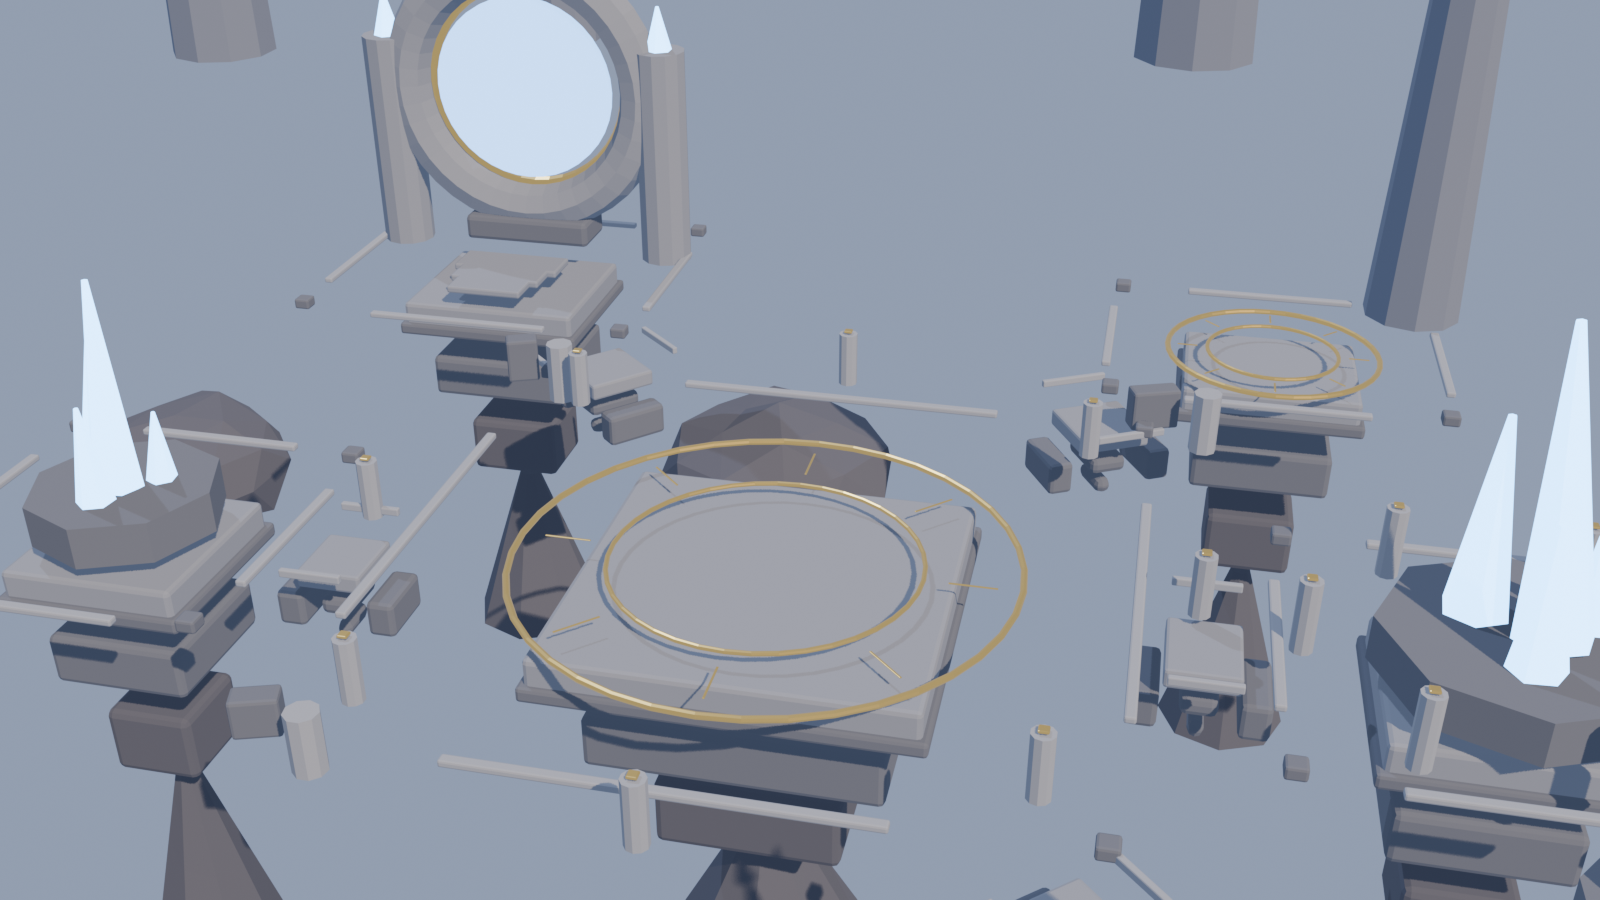
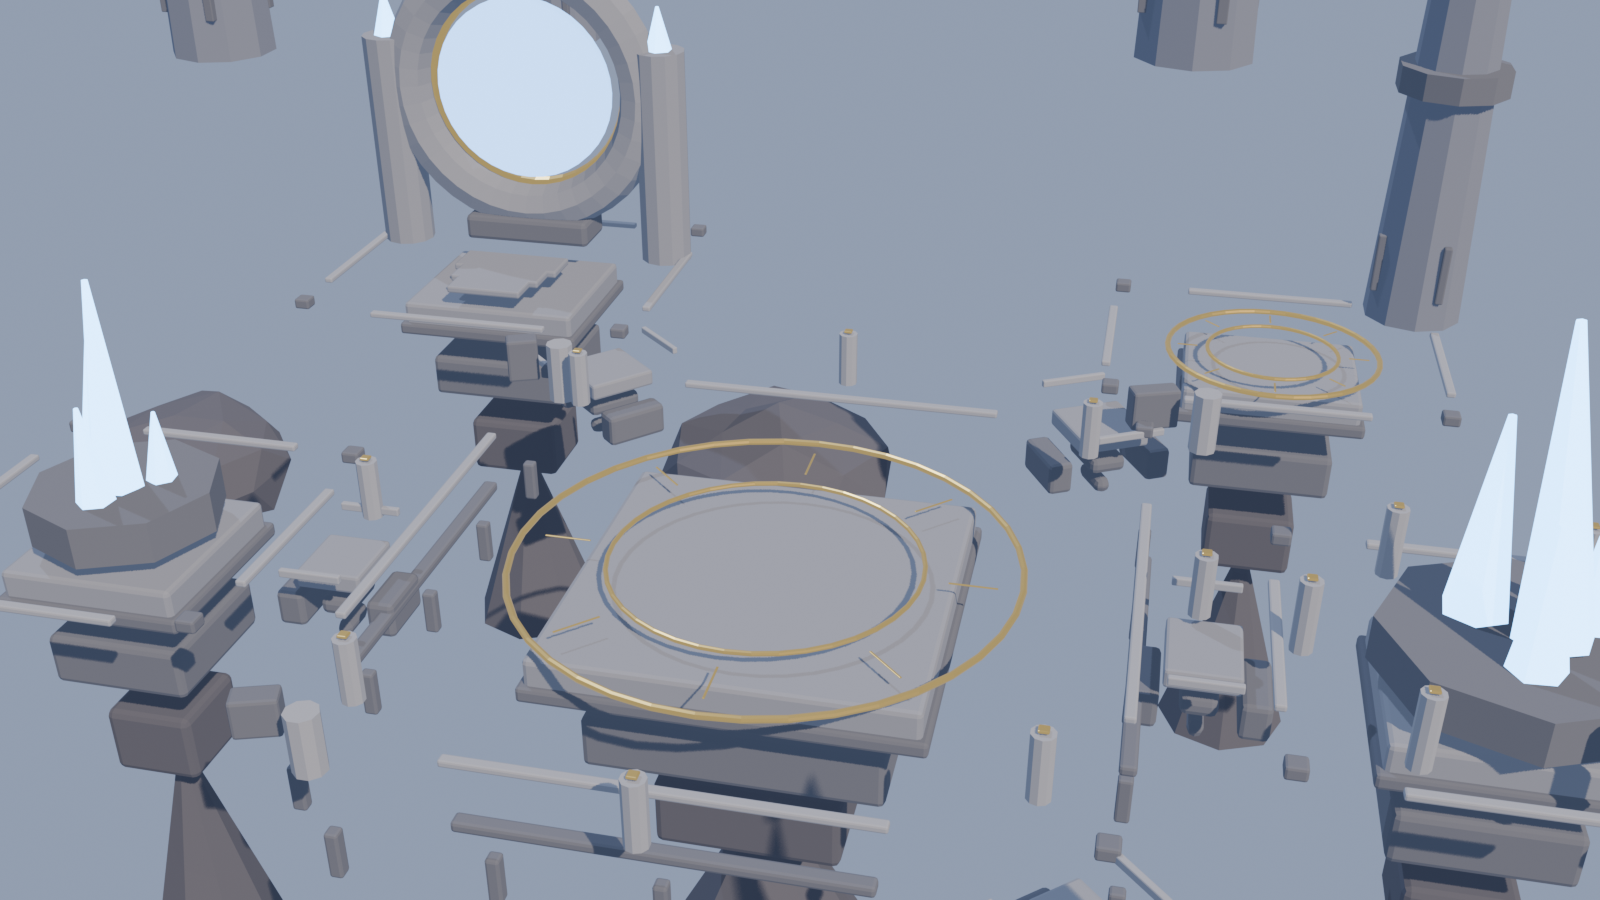
Fidelidad visual: sillería, cristales físicos y amanecer de referencia
- masonryTexture(): sillería tileable (hiladas, juntas, desgaste) aplicada
  en runtime a las superficies grandes del GLB como map + bumpMap.
- Cristales con MeshPhysicalMaterial translúcido (transmission + emisivo).
- Dorados más emisivos; sol de amanecer desde arriba-derecha como en la
  referencia, cielo rotado, relleno frío desde el portal.
- Mar de nubes denso + banco estático de primer plano bajo los bordes.
- Blender: columnata (dintel + pilastras) bajo los bordes visibles de la
  plaza, torres góticas de dos cuerpos con balcón y contrafuertes.
- e2e con perfil ligero (calidad baja + movimiento reducido): valida el
  flujo sin que el WebGL por software agote el presupuesto.
- 71 tests + lint + build + e2e en verde.

diff --git a/src/battle/scenarios/AetherCitadel.tsx b/src/battle/scenarios/AetherCitadel.tsx
@@ -1,12 +1,12 @@
 import { Sparkles, useGLTF } from '@react-three/drei'
 import { useFrame } from '@react-three/fiber'
 import { Component, useEffect, useMemo, useRef, type ReactNode } from 'react'
-import { AdditiveBlending, DoubleSide } from 'three'
-import type { Group, Mesh, Object3D, PointLight } from 'three'
+import { AdditiveBlending, DoubleSide, MeshPhysicalMaterial, RepeatWrapping } from 'three'
+import type { Group, Mesh, MeshStandardMaterial, Object3D, PointLight } from 'three'
 import type { AnimationEvent } from '../../game'
 import type { GraphicsQuality } from '../../store/preferences'
 import { withBase } from '../../utils/assets'
-import { cloudTexture, dawnSkyTexture, glowTexture, portalSwirlTexture } from '../textures'
+import { cloudTexture, dawnSkyTexture, glowTexture, masonryTexture, portalSwirlTexture } from '../textures'
 import { SanctuaryScenario } from './SanctuaryScenario'
 
 const CITADEL_URL = withBase('/assets/scenarios/aether-citadel.glb')
@@ -28,15 +28,16 @@ function DawnAtmosphere({ quality }: { quality: GraphicsQuality }) {
     <>
       <color attach="background" args={['#3b4468']} />
       <fog attach="fog" args={['#7885a8', 26, 88]} />
-      <mesh rotation={[0, 0.9, 0]}>
+      <mesh rotation={[0, -2.2, 0]}>
         <sphereGeometry args={[70, 32, 20]} />
         <meshBasicMaterial map={dawnSkyTexture()} side={1} fog={false} />
       </mesh>
-      <ambientLight intensity={0.55} color="#aeb9d8" />
-      <hemisphereLight intensity={0.45} color="#d8e2ff" groundColor="#5a4a3a" />
+      <ambientLight intensity={0.48} color="#aeb9d8" />
+      <hemisphereLight intensity={0.4} color="#d8e2ff" groundColor="#5a4a3a" />
+      {/* Sol de amanecer desde arriba-derecha, como en la referencia. */}
       <directionalLight
-        position={[-16, 15, -11]}
-        intensity={4.3}
+        position={[15, 14, -8]}
+        intensity={4.8}
         color="#ffcf96"
         castShadow={quality !== 'low'}
         shadow-mapSize-width={quality === 'high' ? 2048 : 1024}
@@ -46,7 +47,8 @@ function DawnAtmosphere({ quality }: { quality: GraphicsQuality }) {
         shadow-camera-top={9}
         shadow-camera-bottom={-9}
       />
-      <directionalLight position={[14, 9, 12]} intensity={0.55} color="#8fa8e8" />
+      {/* Relleno frío desde el lado del portal. */}
+      <directionalLight position={[-14, 9, 10]} intensity={0.6} color="#8fa8e8" />
     </>
   )
 }
@@ -121,37 +123,110 @@ function DawnClouds({ quality, reducedMotion }: { quality: GraphicsQuality; redu
     })
   })
   if (quality === 'low') return null
+  const foreground: readonly (readonly [number, number, number, number, boolean])[] = [
+    [-7.5, -1.7, 9.5, 15, true],
+    [0.5, -2.1, 11.5, 18, false],
+    [8, -1.5, 9, 14, true],
+    [-13, -1.2, 4, 12, false],
+    [13.5, -1.3, 3.5, 13, true],
+  ]
   return (
-    <group ref={group}>
-      {clouds.map((cloud, index) => (
-        <sprite
-          key={index}
-          position={[Math.cos(cloud.angle) * cloud.radius, cloud.y, Math.sin(cloud.angle) * cloud.radius]}
-          scale={[cloud.scale, cloud.scale * 0.42, 1]}
-        >
+    <>
+      <group ref={group}>
+        {clouds.map((cloud, index) => (
+          <sprite
+            key={index}
+            position={[Math.cos(cloud.angle) * cloud.radius, cloud.y, Math.sin(cloud.angle) * cloud.radius]}
+            scale={[cloud.scale, cloud.scale * 0.42, 1]}
+          >
+            <spriteMaterial
+              map={cloudTexture()}
+              transparent
+              opacity={cloud.warm ? 0.72 : 0.58}
+              color={cloud.warm ? '#ffd9b0' : '#e8eefb'}
+              depthWrite={false}
+              fog={false}
+            />
+          </sprite>
+        ))}
+      </group>
+      {/* Banco de nubes estático en primer plano, pegado a los bordes. */}
+      {foreground.map(([x, y, z, scale, warm], index) => (
+        <sprite key={`fg-${index}`} position={[x, y, z]} scale={[scale, scale * 0.38, 1]}>
           <spriteMaterial
             map={cloudTexture()}
             transparent
-            opacity={cloud.warm ? 0.72 : 0.58}
-            color={cloud.warm ? '#ffd9b0' : '#e8eefb'}
+            opacity={warm ? 0.85 : 0.7}
+            color={warm ? '#ffdfba' : '#eef2fc'}
             depthWrite={false}
             fog={false}
           />
         </sprite>
       ))}
-    </group>
+    </>
   )
 }
 
-/** La arquitectura estática exportada desde Blender. */
+/**
+ * La arquitectura estática exportada desde Blender, revestida en runtime:
+ * el glTF trae materiales PBR planos y aquí se les aplica la sillería
+ * procedural, dorados emisivos y cristales físicos translúcidos.
+ */
 function CitadelModel({ quality }: { quality: GraphicsQuality }) {
   const { scene } = useGLTF(CITADEL_URL)
   useEffect(() => {
+    const masonry = masonryTexture()
+    masonry.wrapS = RepeatWrapping
+    masonry.wrapT = RepeatWrapping
+    const dressed = new Set<string>()
     scene.traverse((object) => {
       const mesh = object as Mesh
-      if (mesh.isMesh) {
-        mesh.receiveShadow = quality !== 'low'
-        mesh.castShadow = false
+      if (!mesh.isMesh) return
+      mesh.receiveShadow = quality !== 'low'
+      mesh.castShadow = quality === 'high' && /Tower|Portal(Pylon|ArchOuter)|Col\d|Pedestal/.test(mesh.name)
+      const material = mesh.material as MeshStandardMaterial
+      if (!material?.name) return
+      // Cristales: material físico translúcido, uno por malla para el brillo interno.
+      if (material.name === 'AC_CrystalBlue') {
+        if (!(mesh.material instanceof MeshPhysicalMaterial)) {
+          mesh.material = new MeshPhysicalMaterial({
+            color: '#8ecbff',
+            roughness: 0.08,
+            metalness: 0.05,
+            transmission: 0.55,
+            thickness: 1.2,
+            ior: 1.45,
+            emissive: '#2f7fe8',
+            emissiveIntensity: 1.35,
+            transparent: true,
+            opacity: 0.96,
+          })
+        }
+        return
+      }
+      if (dressed.has(material.name)) return
+      dressed.add(material.name)
+      if (/AC_StoneMain|AC_StoneLight|AC_RockUnder/.test(material.name)) {
+        // Sillería solo en superficies grandes; en cilindros finos los UV
+        // estiran los bloques y arruinan la lectura.
+        const repeat = material.name === 'AC_RockUnder' ? 1.6 : 2.4
+        material.map = masonry
+        material.bumpMap = masonry
+        material.bumpScale = 2.5
+        material.map.repeat.set(repeat, repeat)
+        // El mapa multiplica al color base: se aclara para que la sillería respire.
+        material.color.multiplyScalar(2.1)
+        material.needsUpdate = true
+      } else if (/AC_StoneDark|AC_RuinFar/.test(material.name)) {
+        material.color.multiplyScalar(1.2)
+        material.needsUpdate = true
+      } else if (material.name === 'AC_GoldInlay') {
+        material.emissiveIntensity = 1.05
+        material.roughness = 0.24
+        material.needsUpdate = true
+      } else if (material.name === 'AC_PortalCore') {
+        material.emissiveIntensity = 5.5
+        material.needsUpdate = true
       }
     })
   }, [scene, quality])

diff --git a/src/battle/textures.ts b/src/battle/textures.ts
@@ -365,6 +365,77 @@ export const nebulaTexture = (): CanvasTexture => {
   return finishTexture('nebula', canvas);
 };
 
+/**
+ * Sillería de piedra tileable para revestir la arquitectura del GLB en
+ * runtime: hiladas de bloques con juntas desfasadas, variación tonal por
+ * bloque, desgaste y regueros de intemperie. Sirve como map y bumpMap.
+ */
+export const masonryTexture = (): CanvasTexture => {
+  const cached = cache.get('masonry');
+  if (cached) return cached;
+  const size = 512;
+  const [canvas, context] = makeCanvas(size);
+  const random = seededRandom(0x4d41534f);
+
+  context.fillStyle = '#9a9aa2';
+  context.fillRect(0, 0, size, size);
+
+  const rows = 8;
+  const rowHeight = size / rows;
+  for (let row = 0; row < rows; row += 1) {
+    const offset = row % 2 === 0 ? 0 : rowHeight * 0.9;
+    const blocks = 4 + (row % 2);
+    const blockWidth = size / blocks;
+    for (let block = -1; block <= blocks; block += 1) {
+      const x = block * blockWidth + offset;
+      const y = row * rowHeight;
+      // Tono base por bloque con deriva fría/cálida sutil.
+      const value = 128 + (random() - 0.5) * 44;
+      const warm = (random() - 0.5) * 10;
+      context.fillStyle = `rgb(${value + warm}, ${value + warm * 0.4}, ${value - warm + 8})`;
+      context.fillRect(x + 2, y + 2, blockWidth - 4, rowHeight - 4);
+      // Sombreado inferior del bloque (bisel).
+      context.fillStyle = 'rgba(30, 30, 40, 0.28)';
+      context.fillRect(x + 2, y + rowHeight - 7, blockWidth - 4, 5);
+      context.fillStyle = 'rgba(255, 255, 255, 0.10)';
+      context.fillRect(x + 2, y + 2, blockWidth - 4, 3);
+      // Moteado interior.
+      for (let grain = 0; grain < 26; grain += 1) {
+        const luminance = 70 + random() * 120;
+        context.fillStyle = `rgba(${luminance}, ${luminance}, ${luminance + 8}, ${0.05 + random() * 0.1})`;
+        context.fillRect(x + 3 + random() * (blockWidth - 8), y + 3 + random() * (rowHeight - 8), 1 + random() * 2.4, 1 + random() * 2);
+      }
+      // Desconchones ocasionales.
+      if (random() > 0.72) {
+        context.fillStyle = 'rgba(52, 52, 62, 0.35)';
+        context.beginPath();
+        context.arc(x + random() * blockWidth, y + random() * rowHeight, 3 + random() * 7, 0, Math.PI * 2);
+        context.fill();
+      }
+    }
+    // Junta horizontal.
+    context.fillStyle = 'rgba(24, 24, 32, 0.85)';
+    context.fillRect(0, row * rowHeight - 1, size, 3);
+  }
+  // Regueros verticales de intemperie.
+  for (let streak = 0; streak < 14; streak += 1) {
+    const x = random() * size;
+    const height = size * (0.2 + random() * 0.5);
+    const y = random() * (size - height);
+    const gradient = context.createLinearGradient(0, y, 0, y + height);
+    gradient.addColorStop(0, 'rgba(40, 42, 52, 0)');
+    gradient.addColorStop(0.4, `rgba(40, 42, 52, ${0.10 + random() * 0.12})`);
+    gradient.addColorStop(1, 'rgba(40, 42, 52, 0)');
+    context.fillStyle = gradient;
+    context.fillRect(x, y, 2 + random() * 5, height);
+  }
+
+  const texture = finishTexture('masonry', canvas);
+  texture.wrapS = 1000; // RepeatWrapping
+  texture.wrapT = 1000;
+  return texture;
+};
+
 /** Cielo de amanecer para Aether Citadel: horizonte cálido, cénit azul y nubes lejanas. */
 export const dawnSkyTexture = (): CanvasTexture => {
   const cached = cache.get('dawn-sky');

diff --git a/e2e/game-flow.spec.ts b/e2e/game-flow.spec.ts
@@ -1,9 +1,26 @@
 import { expect, test } from '@playwright/test'
 
 test('recorre la galería y comienza una partida contra la IA', async ({ page }) => {
+  test.setTimeout(90_000)
   const consoleErrors: string[] = []
   page.on('console', (message) => {
     if (message.type() === 'error') consoleErrors.push(message.text())
+  })
+
+  // El e2e valida el flujo de juego, no los gráficos: calidad baja y
+  // movimiento reducido para que el WebGL por software no agote el tiempo.
+  await page.addInitScript(() => {
+    localStorage.setItem(
+      'cronicas-nexo-preferences',
+      JSON.stringify({
+        state: {
+          masterVolume: 0, musicVolume: 0, effectsVolume: 0, muted: true,
+          reducedMotion: true, aiDelayMs: 200, selectedDeckId: 'furia-caldera',
+          graphicsQuality: 'low', scenario: 'aether-citadel', animationSpeed: 2,
+        },
+        version: 3,
+      }),
+    )
   })
 
   await page.goto('/')

diff --git a/tools/blender/generate_aether_citadel.py b/tools/blender/generate_aether_citadel.py
@@ -304,15 +304,53 @@ def crystal_cluster(prefix, col, mats, center, scale=1.0):
 
 
 def tower_module(prefix, col, mats, location, height, radius):
+    """Torre gótica de dos cuerpos con balcón, aguja y faro de cristal."""
     x, y = location
     cylinder(f"{prefix}Shaft", col, mats["ruin"], radius, height, (x, y, height / 2),
-             vertices=10, radius2=radius * 0.7)
-    cylinder(f"{prefix}Crown", col, mats["stone_dark"], radius * 0.85, height * 0.16,
-             (x, y, height + height * 0.07), vertices=10)
-    cylinder(f"{prefix}Spire", col, mats["ruin"], radius * 0.55, height * 0.5,
-             (x, y, height * 1.32), vertices=8, radius2=0.02)
+             vertices=10, radius2=radius * 0.74)
+    # Balcón intermedio y cuerpo superior más esbelto.
+    cylinder(f"{prefix}Balcony", col, mats["stone_dark"], radius * 1.12, height * 0.07,
+             (x, y, height * 0.66), vertices=10)
+    cylinder(f"{prefix}Upper", col, mats["ruin"], radius * 0.62, height * 0.5,
+             (x, y, height * 0.94), vertices=10, radius2=radius * 0.42)
+    cylinder(f"{prefix}Crown", col, mats["stone_dark"], radius * 0.7, height * 0.12,
+             (x, y, height * 1.24), vertices=10)
+    cylinder(f"{prefix}Spire", col, mats["ruin"], radius * 0.42, height * 0.55,
+             (x, y, height * 1.55), vertices=8, radius2=0.02)
+    # Contrafuertes en la base.
+    for corner in range(4):
+        angle = corner / 4 * math.tau + 0.4
+        box(f"{prefix}Buttress{corner}", col, mats["stone_dark"],
+            (radius * 0.34, radius * 0.34, height * 0.32),
+            (x + math.cos(angle) * radius * 0.95, y + math.sin(angle) * radius * 0.95,
+             height * 0.16), bevel=0.03)
     crystal(f"{prefix}Beacon", col, mats["crystal"], radius * 0.2, radius * 0.8,
-            (x, y, height * 1.62))
+            (x, y, height * 1.88))
+
+
+def arcade_module(prefix, col, mats, center, size, bays=5):
+    """Arquería bajo el borde de una plaza: pilastras y arcos colgantes."""
+    cx, cy = center
+    half = size / 2
+    step = size / bays
+    # Solo las fachadas que ve la cámara: sur, oeste y este. Hundidas bajo
+    # el borde para que únicamente asome la media luna del arco.
+    sides = [
+        (0, -half, 0),            # frente (sur)
+        (-half, 0, math.pi / 2),  # oeste
+        (half, 0, -math.pi / 2),  # este
+    ]
+    for side_index, (ox, oy, yaw) in enumerate(sides):
+        # Dintel corrido bajo el borde y pilastras colgantes: columnata.
+        box(f"{prefix}S{side_index}Lintel", col, mats["stone_dark"],
+            (size * 0.98, 0.5, 0.34), (cx + ox, cy + oy, -0.86),
+            rotation=(0, 0, yaw), bevel=0.05)
+        for bay in range(bays):
+            along = -half + step * (bay + 0.5)
+            px = cx + ox + math.cos(yaw) * along
+            py = cy + oy + math.sin(yaw) * along
+            box(f"{prefix}S{side_index}Pilaster{bay}", col, mats["stone_dark"],
+                (0.4, 0.44, 1.5), (px, py, -1.72), rotation=(0, 0, yaw), bevel=0.04)
 
 
 # ---------------------------------------------------------------------------
@@ -365,8 +403,9 @@ def build_citadel() -> None:
     bridge_module("BridgeW", secondary, mats, (-5.8, -1.0), (-7.3, -1.0), 2.3)
     bridge_module("BridgeSE", secondary, mats, (4.6, -5.8), (5.9, -7.2), 2.0)
 
-    # Columnas perimetrales de la plaza central.
+    # Columnas perimetrales y arquería colgante de la plaza central.
     column_ring("CentralCols", collection("Columns"), mats, (0, 0), size * 0.56, 8, height=1.0)
+    arcade_module("CentralArcade", collection("DecorativeRuins"), mats, (0, 0), size * 0.98, bays=5)
 
     # Ruinas decorativas cercanas.
     ruins = collection("DecorativeRuins")